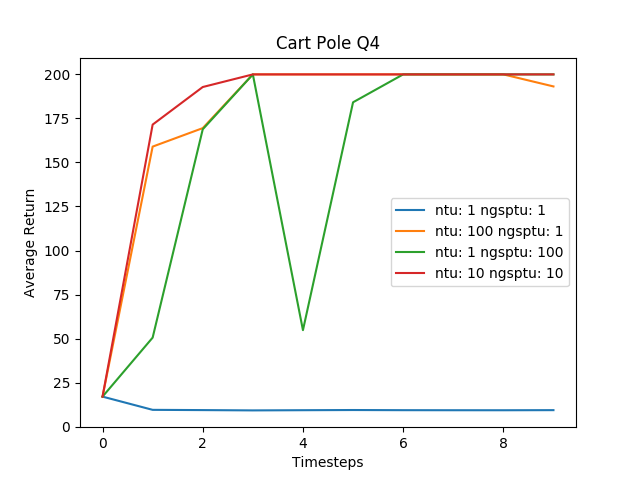
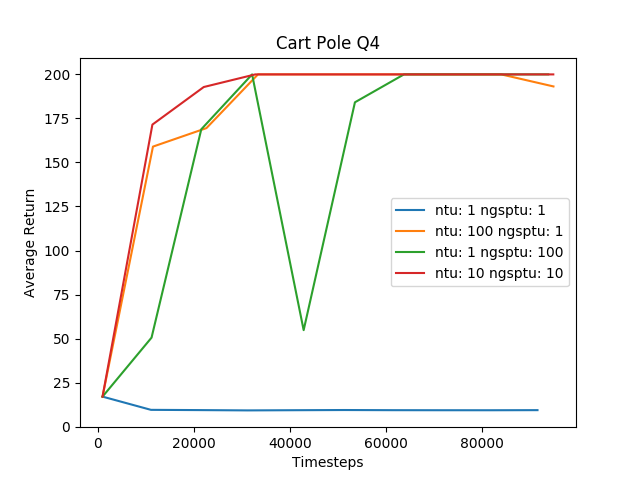
Finalized hw3 plot code and added some changes to hw4 code

diff --git a/hw3/cs285/scripts/plot.py b/hw3/cs285/scripts/plot.py
@@ -13,7 +13,7 @@ def parse_tf_events_file(filename, tag):
     for e in tf.train.summary_iterator(filename):
         for v in e.summary.value:
 
-            print(v.tag)
+            #print(v.tag)
 
             if v.tag == tag:
                 eval_returns.append(v.simple_value)
@@ -65,15 +65,20 @@ def q2():
     dqn_avg_returns = []
     ddqn_avg_returns = []
 
+    dqn_timesteps = []
+    ddqn_timesteps = []
+
     for seed in dqn_data_path: 
 
         # Get return values. 
         dqn_avg_returns.append(np.asarray(parse_tf_events_file(seed, 'Train_AverageReturn'), dtype=np.float32))
+        dqn_timesteps.append(np.asarray(parse_tf_events_file(seed, 'Train_EnvstepsSoFar'), dtype=np.int32)[:-1])
 
     for seed in ddqn_data_path: 
 
         # Get return values
         ddqn_avg_returns.append(np.asarray(parse_tf_events_file(seed, 'Train_AverageReturn'), dtype=np.float32))
+        ddqn_timesteps.append(np.asarray(parse_tf_events_file(seed, 'Train_EnvstepsSoFar'), dtype=np.int32)[:-1])
 
     # Average over 3 seeds. 
     dqn_avg_returns = np.asarray(dqn_avg_returns)
@@ -83,8 +88,8 @@ def q2():
     ddqn_avg_returns = np.mean(ddqn_avg_returns, 0)
 
     # Plot result. 
-    plt.plot(np.arange(len(dqn_avg_returns)), dqn_avg_returns)
-    plt.plot(np.arange(len(ddqn_avg_returns)), ddqn_avg_returns)
+    plt.plot(dqn_timesteps[0], dqn_avg_returns)
+    plt.plot(ddqn_timesteps[0], ddqn_avg_returns)
 
     # Save figure. 
     plt.legend(['DQN', 'DDQN'])
@@ -93,6 +98,45 @@ def q2():
 
     plt.title('Lunar Lander Q2')
     plt.savefig('q2.png')
+    plt.close()
+
+def q3():
+    
+    data_path = os.path.join(os.path.dirname(os.path.realpath(__file__)), '../data/*PongNoFrameskip*')
+    data_path = glob(os.path.join(data_path, 'events.out.tfevents*'))
+
+    legend = []
+    l = 600
+
+    for hparam in data_path: 
+
+        # Get return values. 
+        avg_returns = np.asarray(parse_tf_events_file(hparam, 'Train_AverageReturn'), dtype=np.float32)[:l]
+
+        # Plot result. 
+        timesteps = np.asarray(parse_tf_events_file(hparam, 'Train_EnvstepsSoFar'), dtype=np.int32)[:l]
+        plt.plot(timesteps, avg_returns)
+
+        name = hparam.split('/')[9]
+        
+        if 'hparam1' in name: 
+            name = '2'
+        elif 'hparam2' in name: 
+            name = '8'
+        elif 'q1' in name:
+            name = '32'
+        elif 'hparam3' in name:
+            name = '128'
+
+        legend.append(name)
+
+    # Save figure. 
+    plt.legend(legend)
+    plt.xlabel('Timesteps')
+    plt.ylabel('Average Return')
+
+    plt.title('Pong Q3 Batch Size Comparison')
+    plt.savefig('q3.png')
     plt.close()
 
 def q4(): 
@@ -105,8 +149,10 @@ def q4():
     for path in data_path: 
 
         # Get return values. 
-        avg_return = np.asarray(parse_tf_events_file(path, 'Train_AverageReturn'), dtype=np.float32)
-        plt.plot(np.arange(len(avg_return)), avg_return)
+        avg_return = np.asarray(parse_tf_events_file(path, 'Train_AverageReturn'), dtype=np.float32) 
+        timesteps = np.asarray(parse_tf_events_file(path, 'Train_EnvstepsSoFar'), dtype=np.int32)
+        
+        plt.plot(timesteps, avg_return)
 
         ntu, ngsptu = path.split('ac')[1].split('_')[1:3]
         legend.append('ntu: {} ngsptu: {}'.format(ntu, ngsptu))
@@ -132,8 +178,11 @@ def q5():
     ip_avg_returns = np.asarray(parse_tf_events_file(ip_data_path, 'Train_AverageReturn'), dtype=np.float32)
     hc_avg_returns = np.asarray(parse_tf_events_file(hc_data_path, 'Train_AverageReturn'), dtype=np.float32)
 
-    # Plot results. 
-    plt.plot(np.arange(len(ip_avg_returns)), ip_avg_returns)
+    ip_timesteps = np.asarray(parse_tf_events_file(ip_data_path, 'Train_EnvstepsSoFar'), dtype=np.int32)
+    hc_timesteps = np.asarray(parse_tf_events_file(hc_data_path, 'Train_EnvstepsSoFar'), dtype=np.int32)
+
+    # Plot results.
+    plt.plot(ip_timesteps, ip_avg_returns)
     plt.xlabel('Timesteps')
     plt.ylabel('Average Return')
 
@@ -141,7 +190,7 @@ def q5():
     plt.savefig('q5_ip.png')
     plt.close()
 
-    plt.plot(np.arange(len(hc_avg_returns)), hc_avg_returns)
+    plt.plot(hc_timesteps, hc_avg_returns)
     plt.xlabel('Timesteps')
     plt.ylabel('Average Return')
 

diff --git a/hw4/cs285/models/ff_model.py b/hw4/cs285/models/ff_model.py
@@ -49,23 +49,38 @@ class FFModel(BaseModel):
         obs_unnormalized = self.obs_pl
         acs_unnormalized = self.acs_pl
         # Hint: Consider using the normalize function defined in infrastructure.utils for the following two lines
-        obs_normalized = # TODO(Q1) Define obs_normalized using obs_unnormalized,and self.obs_mean_pl and self.obs_std_pl
-        acs_normalized = # TODO(Q2) Define acs_normalized using acs_unnormalized and self.acs_mean_pl and self.acs_std_pl
+        
+        # TODO(Q1) Define obs_normalized using obs_unnormalized,and self.obs_mean_pl and self.obs_std_pl
+        obs_normalized =  normalize(obs_unnormalized, self.obs_mean_pl, self.obs_std_pl)
+
+        # TODO(Q2) Define acs_normalized using acs_unnormalized and self.acs_mean_pl and self.acs_std_pl
+        acs_normalized = normalize(acs_unnormalized, self.acs_mean_pl, self.acs_std_pl)
 
         # predicted change in obs
         concatenated_input = tf.concat([obs_normalized, acs_normalized], axis=1)
+
         # Hint: Note that the prefix delta is used in the variable below to denote changes in state, i.e. (s'-s)
-        self.delta_pred_normalized = # TODO(Q1) Use the build_mlp function and the concatenated_input above to define a neural network that predicts unnormalized delta states (i.e. change in state)
-        self.delta_pred_unnormalized = # TODO(Q1) Unnormalize the the delta_pred above using the unnormalize function, and self.delta_mean_pl and self.delta_std_pl
-        self.next_obs_pred = # TODO(Q1) Predict next observation using current observation and delta prediction (not that next_obs here is unnormalized)
+        # TODO(Q1) Use the build_mlp function and the concatenated_input above to define a neural network that predicts unnormalized delta states (i.e. change in state)
+        self.delta_pred_normalized = build_mlp(concatenated_input, self.ob_dim, self.scope, self.n_layers, self.size) # TODO Check correctness. 
+        
+        # TODO(Q1) Unnormalize the the delta_pred above using the unnormalize function, and self.delta_mean_pl and self.delta_std_pl
+        self.delta_pred_unnormalized = unnormalize(self.delta_pred_normalized, self.delta_mean_pl, self.delta_std_pl)
+
+        # TODO(Q1) Predict next observation using current observation and delta prediction (not that next_obs here is unnormalized)
+        self.next_obs_pred = obs_unnormalized + self.delta_pred_unnormalized
 
     def define_train_op(self):
 
         # normalize the labels
-        self.delta_labels_normalized =  # TODO(Q1) Define a normalized version of delta_labels using self.delta_labels (which are unnormalized), and self.delta_mean_pl and self.delta_std_pl
+
+        # TODO(Q1) Define a normalized version of delta_labels using self.delta_labels (which are unnormalized), and self.delta_mean_pl and self.delta_std_pl
+        self.delta_labels_normalized = normalize(self.delta_labels, self.delta_mean_pl, self.delta_std)
 
         # compared predicted deltas to labels (both should be normalized)
-        self.loss = # TODO(Q1) Define a loss function that takes as input normalized versions of predicted change in state and ground truth change in state
+        
+        # TODO(Q1) Define a loss function that takes as input normalized versions of predicted change in state and ground truth change in state
+        self.loss = tf.losses.mean_squared_error(self.delta_labels_normalized, # TODO Is this the right loss???
+        
         self.train_op = # TODO(Q1) Define a train_op to minimize the loss defined above. Adam optimizer will work well.
 
     #############################

diff --git a/hw4/cs285/infrastructure/tf_utils.py b/hw4/cs285/infrastructure/tf_utils.py
@@ -7,7 +7,29 @@ import os
 def build_mlp(input_placeholder, output_size, scope, n_layers, size, activation=tf.tanh, output_activation=None):
     
     # TODO: GETTHIS from HW1
+    """
+        Builds a feedforward neural network
 
+        arguments:
+            input_placeholder: placeholder variable for the state (batch_size, input_size)
+            scope: variable scope of the network
+
+            n_layers: number of hidden layers
+            size: dimension of each hidden layer
+            activation: activation of each hidden layer
+
+            output_size: size of the output layer
+            output_activation: activation of the output layer
+
+        returns:
+            output_placeholder: the result of a forward pass through the hidden layers + the output layer
+    """
+    output_placeholder = input_placeholder
+    with tf.variable_scope(scope):
+        for _ in range(n_layers):
+            output_placeholder = tf.layers.dense(output_placeholder, size, activation=activation) # HINT: use tf.layers.dense (specify <input>, <size>, activation=<?>)
+        output_placeholder = tf.layers.dense(output_placeholder, output_size, activation=output_activation) # HINT: use tf.layers.dense (specify <input>, <size>, activation=<?>)
+    return output_placeholder
 
 ############################################
 ############################################

diff --git a/hw4/cs285/agents/mb_agent.py b/hw4/cs285/agents/mb_agent.py
@@ -43,17 +43,27 @@ class MBAgent(BaseAgent):
         num_data = ob_no.shape[0]
         num_data_per_ens = int(num_data/self.ensemble_size)
 
+        # Keep sampled batch idx for each ensemble member. # TODO Is this correct?? 
+        batch_idx = np.arange(num_data) 
+        np.random.shuffle(batch_idx)
+
         for i in range(self.ensemble_size):
             
             # select which datapoints to use for this model of the ensemble
             # you might find the num_data_per_env variable defined above useful
 
-            observations = # TODO(Q1)
-            actions = # TODO(Q1)
-            next_observations = # TODO(Q1)
+            # TODO Check shapes of things. 
+            start = i*num_data_per_ens
+            end = (i + 1) * num_data_per_ens 
+
+            exit('Check shapes of things mb_agents.py')
+
+            observations = tf.gather(ob_no, batch_idx[start:end], axis=0)  
+            actions = tf.gather(ac_na, batch_idx[start:end], axis=0)
+            next_observations = tf.gather(next_ob_no, batch_idx[start:end], axis=0)
 
             # use datapoints to update one of the dyn_models
-            model =  # TODO(Q1)
+            model =  self.dyn_models[i]
             loss = model.update(observations, actions, next_observations, self.data_statistics)
             losses.append(loss)
 
